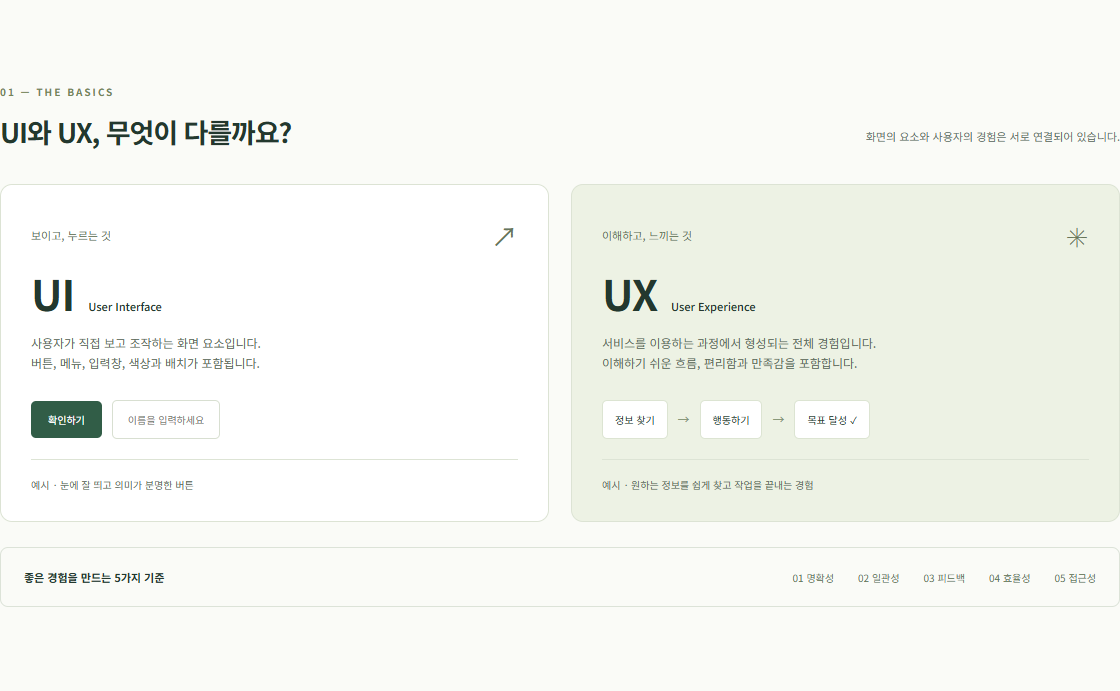
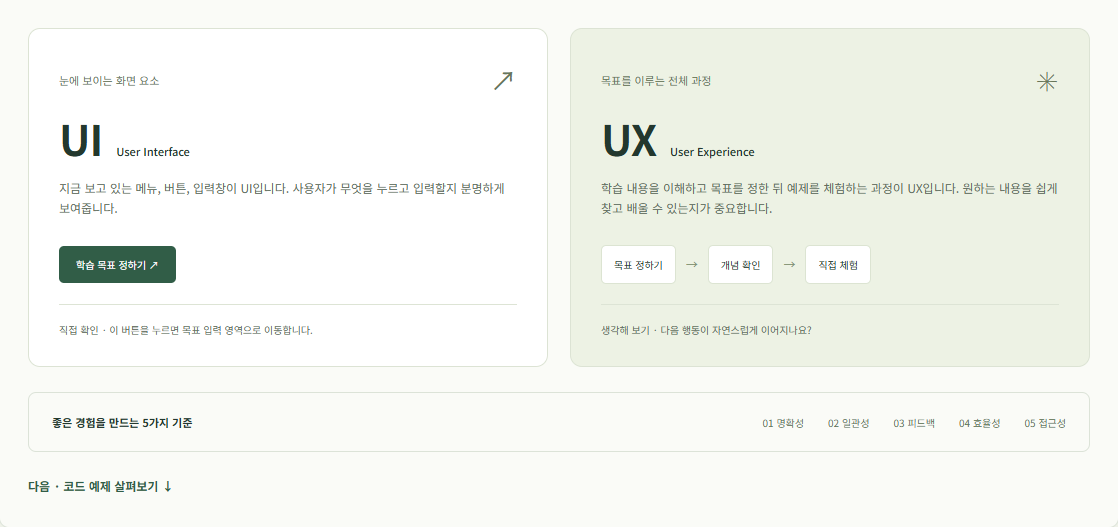
feat(week2): 서비스 소개와 기능 체험을 한 페이지로 통합

diff --git a/index.html b/index.html
@@ -7,12 +7,13 @@
   <title>한걸음 UI/UX | 이해하고, 만들고, 경험하는 웹</title>
   <link rel="stylesheet" href="style.css">
   <script src="script.js" defer></script>
+  <script src="learning.js" defer></script>
 </head>
 <body class="service-page">
   <!-- UX 기획
     사용자: UI와 UX, 웹의 기본 구조를 처음 배우는 대학생.
     목적: 서비스의 학습 내용과 이용 방법을 이해하고 첫 웹 학습을 시작한다.
-    핵심 행동: 페이지 안에서 필요한 정보를 찾고, 오늘의 학습 목표를 입력한 뒤 학습실을 이용한다.
+    핵심 행동: 페이지 안에서 필요한 정보를 찾고, 오늘의 학습 목표를 입력한 뒤 주요 기능의 예제를 펼쳐 직접 체험한다.
     정보 순서: 서비스 이름과 한 줄 소개 → 서비스 소개 → 주요 기능 3개 → 이용 방법 3단계 → 학습 목표 입력 → 하단 정보.
   -->
   <a class="skip-link" href="#main">본문 바로가기</a>
@@ -54,10 +55,10 @@
     <section class="section wrap" id="about" aria-labelledby="about-title">
       <div class="section-heading"><div><p class="eyebrow">01 — ABOUT THE SERVICE</p><h2 id="about-title">서비스 소개</h2></div><p>처음 배우는 사람의 시선으로, 한 단계씩.</p></div>
       <div class="about-layout">
-        <div class="about-copy"><h3>처음 만나는 웹,<br>어디서 시작할지 막막했다면.</h3><p>한걸음 UI/UX는 낯선 용어와 코드 앞에서 멈추는 대학생을 위해 만들었습니다. UI와 UX의 차이를 이해하고, 웹을 구성하는 세 가지 기술을 예제로 살펴봅니다.</p><p>읽는 데서 끝나지 않고 버튼을 직접 눌러보세요. 사용자의 행동에 화면이 어떻게 반응하는지 확인하며 배운 내용을 경험으로 연결할 수 있습니다.</p><a class="text-link" href="learn.html">학습실 미리 둘러보기 <span aria-hidden="true">↗</span></a></div>
+        <div class="about-copy"><h3>처음 만나는 웹,<br>어디서 시작할지 막막했다면.</h3><p>한걸음 UI/UX는 낯선 용어와 코드 앞에서 멈추는 대학생을 위해 만들었습니다. UI와 UX의 차이를 이해하고, 웹을 구성하는 세 가지 기술을 예제로 살펴봅니다.</p><p>읽는 데서 끝나지 않고 버튼을 직접 눌러보세요. 사용자의 행동에 화면이 어떻게 반응하는지 확인하며 배운 내용을 경험으로 연결할 수 있습니다.</p><a class="text-link" href="#features">주요 기능 살펴보기 <span aria-hidden="true">↓</span></a></div>
         <figure class="service-preview">
-          <img src="assets/images/service.png" alt="한걸음 UI/UX 학습실에서 UI의 버튼·입력창과 UX의 정보 찾기·행동하기·목표 달성 흐름을 비교하는 화면" width="1120" height="691" loading="lazy">
-          <figcaption><span class="dot" aria-hidden="true"></span>학습실 미리보기 · UI와 UX 비교하기</figcaption>
+          <img src="assets/images/service.png" alt="UI의 눈에 보이는 버튼과 UX의 목표 정하기·개념 확인·직접 체험 흐름을 나란히 비교하는 예제 화면" width="1118" height="527" loading="lazy">
+          <figcaption><span class="dot" aria-hidden="true"></span>서비스 체험 예시 · UI와 UX 비교하기</figcaption>
         </figure>
       </div>
     </section>
@@ -65,23 +66,64 @@
     <section class="structure-section" id="features" aria-labelledby="features-title"><div class="section wrap">
       <div class="section-heading"><div><p class="eyebrow">02 — WHAT YOU CAN DO</p><h2 id="features-title">주요 기능</h2></div><p>이해에서 실습까지 이어지는 세 가지 경험.</p></div>
       <ul class="feature-grid">
-        <li class="feature-card"><span class="feature-number" aria-hidden="true">01 / UNDERSTAND</span><h3>UI와 UX 비교하기</h3><p>버튼과 입력창 같은 화면 요소, 사용 과정에서 느끼는 경험을 비교하고 좋은 경험의 다섯 가지 기준을 알아봅니다.</p><a class="text-link" href="learn.html#concept">개념 살펴보기 <span aria-hidden="true">↗</span></a></li>
-        <li class="feature-card"><span class="feature-number" aria-hidden="true">02 / EXPLORE</span><h3>코드 예제 바꿔보기</h3><p>HTML, CSS, JavaScript 탭을 선택해 내용의 구조, 화면의 표현, 상호작용을 만드는 코드와 역할을 확인합니다.</p><a class="text-link" href="learn.html#structure">코드 예제 보기 <span aria-hidden="true">↗</span></a></li>
-        <li class="feature-card"><span class="feature-number" aria-hidden="true">03 / EXPERIENCE</span><h3>클릭과 피드백 체험하기</h3><p>버튼을 누르면 바뀌는 숫자와 메시지로 화면의 반응을 경험합니다. 초기화 버튼으로 다시 시작할 수도 있습니다.</p><a class="text-link" href="learn.html#practice">인터랙션 체험하기 <span aria-hidden="true">↗</span></a></li>
+        <li class="feature-card"><span class="feature-number" aria-hidden="true">01 / UNDERSTAND</span><h3>UI와 UX 비교하기</h3><p>버튼과 입력창 같은 화면 요소, 사용 과정에서 느끼는 경험을 비교하고 좋은 경험의 다섯 가지 기준을 알아봅니다.</p><a class="text-link" href="#concept">개념 예제 펼치기 <span aria-hidden="true">↓</span></a></li>
+        <li class="feature-card"><span class="feature-number" aria-hidden="true">02 / EXPLORE</span><h3>코드 예제 바꿔보기</h3><p>HTML, CSS, JavaScript 탭을 선택해 내용의 구조, 화면의 표현, 상호작용을 만드는 코드와 역할을 확인합니다.</p><a class="text-link" href="#structure">코드 예제 펼치기 <span aria-hidden="true">↓</span></a></li>
+        <li class="feature-card"><span class="feature-number" aria-hidden="true">03 / EXPERIENCE</span><h3>클릭과 피드백 체험하기</h3><p>버튼을 누르면 바뀌는 숫자와 메시지로 화면의 반응을 경험합니다. 초기화 버튼으로 다시 시작할 수도 있습니다.</p><a class="text-link" href="#practice">인터랙션 예제 펼치기 <span aria-hidden="true">↓</span></a></li>
       </ul>
+      <!-- 기능 설명과 체험을 같은 영역에 배치해 별도 페이지 이동 없이 이용합니다. -->
+      <div class="feature-demos">
+        <p class="demo-intro">궁금한 예제를 펼쳐 이 페이지에서 바로 체험해 보세요.</p>
+        <details class="feature-demo" id="concept">
+          <summary><span class="demo-number">01</span> UI와 UX 비교하기 <span class="demo-toggle" aria-hidden="true">+</span></summary>
+          <div class="demo-content">
+            <div class="concept-grid">
+              <article class="concept-card ui-card"><div class="card-top"><span>눈에 보이는 화면 요소</span><span class="symbol" aria-hidden="true">↗</span></div><h3>UI<span>User Interface</span></h3><p>지금 보고 있는 메뉴, 버튼, 입력창이 UI입니다. 사용자가 무엇을 누르고 입력할지 분명하게 보여줍니다.</p><div class="ui-example"><a class="example-button" href="#start">학습 목표 정하기 ↗</a></div><p class="card-note">직접 확인 · 이 버튼을 누르면 목표 입력 영역으로 이동합니다.</p></article>
+              <article class="concept-card ux-card"><div class="card-top"><span>목표를 이루는 전체 과정</span><span class="symbol" aria-hidden="true">✳</span></div><h3>UX<span>User Experience</span></h3><p>학습 내용을 이해하고 목표를 정한 뒤 예제를 체험하는 과정이 UX입니다. 원하는 내용을 쉽게 찾고 배울 수 있는지가 중요합니다.</p><div class="ux-example"><span>목표 정하기</span><i aria-hidden="true">→</i><span>개념 확인</span><i aria-hidden="true">→</i><span>직접 체험</span></div><p class="card-note">생각해 보기 · 다음 행동이 자연스럽게 이어지나요?</p></article>
+            </div>
+            <div class="principles"><strong>좋은 경험을 만드는 5가지 기준</strong><div><span>01 명확성</span><span>02 일관성</span><span>03 피드백</span><span>04 효율성</span><span>05 접근성</span></div></div>
+            <a class="text-link demo-next" href="#structure">다음 · 코드 예제 살펴보기 ↓</a>
+          </div>
+        </details>
+        <details class="feature-demo" id="structure">
+          <summary><span class="demo-number">02</span> 코드 예제 바꿔보기 <span class="demo-toggle" aria-hidden="true">+</span></summary>
+          <div class="demo-content">
+            <p class="demo-description">지금 보고 있는 서비스 소개 페이지도 세 가지 역할로 만들어집니다. 탭을 선택해 코드를 비교해 보세요.</p>
+            <div class="tech-layout">
+              <div class="tech-tabs" role="tablist" aria-label="웹 기술" aria-orientation="vertical">
+                <button type="button" id="tab-html" role="tab" aria-selected="true" aria-controls="tech-panel" data-tech="html"><span class="tech-number">01</span><span><strong>HTML</strong><small>내용과 구조</small></span><span class="tab-arrow" aria-hidden="true">↗</span></button>
+                <button type="button" id="tab-css" role="tab" aria-selected="false" aria-controls="tech-panel" tabindex="-1" data-tech="css"><span class="tech-number">02</span><span><strong>CSS</strong><small>디자인과 표현</small></span><span class="tab-arrow" aria-hidden="true">↗</span></button>
+                <button type="button" id="tab-js" role="tab" aria-selected="false" aria-controls="tech-panel" tabindex="-1" data-tech="js"><span class="tech-number">03</span><span><strong>JavaScript</strong><small>동작과 상호작용</small></span><span class="tab-arrow" aria-hidden="true">↗</span></button>
+              </div>
+              <div class="code-panel" id="tech-panel" role="tabpanel" aria-labelledby="tab-html" tabindex="0"><div class="code-top"><span id="code-filename">index.html</span><span class="code-dots" aria-hidden="true">● ● ●</span></div><div class="code-content"><p id="tech-description">HTML은 서비스 이름, 소개 문단, 이동 링크에 의미와 구조를 부여합니다.</p><pre><code id="code-example">&lt;section id="about"&gt;
+  &lt;h2&gt;서비스 소개&lt;/h2&gt;
+  &lt;p&gt;작은 실습으로 웹을 배웁니다.&lt;/p&gt;
+  &lt;a href="#features"&gt;주요 기능 보기&lt;/a&gt;
+&lt;/section&gt;</code></pre><span class="code-note" id="tech-analogy">이 페이지에서 찾기 · 서비스 소개와 주요 기능 영역</span></div></div>
+            </div>
+            <a class="text-link demo-next" href="#practice">다음 · 클릭과 피드백 체험하기 ↓</a>
+          </div>
+        </details>
+        <details class="feature-demo" id="practice">
+          <summary><span class="demo-number">03</span> 클릭과 피드백 체험하기 <span class="demo-toggle" aria-hidden="true">+</span></summary>
+          <div class="demo-content demo-practice">
+            <div><h3>내 행동에 화면이 답한다면.</h3><p class="practice-description">체험 버튼을 눌러보세요. 숫자와 메시지가 바뀌면 내 행동이 전달되었다는 것을 알 수 있습니다.</p><div class="feedback-flow"><span>버튼 누르기</span> → <span>화면 반응</span> → <span>결과 확인</span></div></div>
+            <div class="interaction-card"><span class="live-label"><span class="dot" aria-hidden="true"></span> TRY IT HERE</span><div class="counter"><strong id="click-count">0</strong><span>번의 인터랙션</span></div><p id="feedback-message" role="status" aria-live="polite">아래 버튼으로 첫 인터랙션을 만들어 보세요.</p><button type="button" class="interaction-button" id="experience-button">클릭해 보세요 <span aria-hidden="true">↗</span></button><button type="button" class="reset-button" id="reset-button" disabled>처음으로 되돌리기</button></div>
+          </div>
+        </details>
+      </div>
     </div></section>
 
     <section class="section wrap" id="steps" aria-labelledby="steps-title">
       <div class="section-heading"><div><p class="eyebrow">03 — HOW TO START</p><h2 id="steps-title">이용 방법</h2></div><p>첫 학습을 시작하는 간단한 3단계.</p></div>
       <ol class="steps-list">
         <li><h3>오늘의 목표 정하기</h3><p>아래 입력창에 오늘 배우고 싶은 내용을 한 줄로 적어 학습 방향을 정합니다.</p></li>
-        <li><h3>개념과 예제 살펴보기</h3><p>학습실에서 UI와 UX를 비교하고 HTML, CSS, JavaScript 코드 탭을 차례로 선택합니다.</p></li>
+        <li><h3>개념과 예제 살펴보기</h3><p>주요 기능에서 예제를 펼쳐 UI와 UX를 비교하고 HTML, CSS, JavaScript 코드 탭을 차례로 선택합니다.</p></li>
         <li><h3>직접 누르고 확인하기</h3><p>인터랙션 실습 버튼을 누르고 화면의 변화를 확인하며 목표로 정한 내용을 복습합니다.</p></li>
       </ol>
     </section>
 
     <section class="wrap reflection start-section" id="start" aria-labelledby="start-title">
-      <div class="start-copy"><p class="eyebrow">04 — YOUR FIRST STEP</p><h2 id="start-title">학습 목표</h2><p>오늘 배우고 싶은 한 가지부터 시작해 보세요.<br>작은 목표가 첫 걸음을 더 쉽게 만듭니다.</p><a class="text-link" href="learn.html">학습실로 이동하기 <span aria-hidden="true">↗</span></a></div>
+      <div class="start-copy"><p class="eyebrow">04 — YOUR FIRST STEP</p><h2 id="start-title">학습 목표</h2><p>오늘 배우고 싶은 한 가지부터 시작해 보세요.<br>작은 목표가 첫 걸음을 더 쉽게 만듭니다.</p><a class="text-link" href="#concept">개념 예제 먼저 살펴보기 <span aria-hidden="true">↑</span></a></div>
       <!-- 최소 입력 영역: 서비스의 핵심 행동에 맞춘 입력 한 칸과 제출 버튼. -->
       <form id="goal-form" action="#start" method="get">
         <label for="learning-goal">오늘의 학습 목표 <span>(필수)</span></label>
@@ -89,8 +131,8 @@
         <p id="goal-help">80자 이내로 적어주세요. 목표는 이 화면에서만 확인하며, 새로고침하면 지워집니다.</p>
         <button class="interaction-button" id="goal-submit" type="submit" disabled>학습 목표 정하기 <span aria-hidden="true">↗</span></button>
         <p id="goal-feedback" role="status" aria-live="polite"></p>
-        <a class="text-link" id="goal-next" href="learn.html#concept" hidden>목표를 정했어요. 첫 개념 학습하기 ↗</a>
-        <noscript><p>목표 확인 기능은 JavaScript가 필요합니다. 위의 학습실 링크로 바로 학습할 수 있습니다.</p></noscript>
+        <a class="text-link" id="goal-next" href="#concept" hidden>목표를 정했어요. 개념 예제 펼치기 ↑</a>
+        <noscript><p>목표 확인 기능은 JavaScript가 필요합니다. 주요 기능의 예제를 펼쳐 내용을 읽을 수 있습니다.</p></noscript>
       </form>
     </section>
   </main>

diff --git a/learn.html b/learn.html
@@ -3,64 +3,18 @@
 <head>
   <meta charset="UTF-8">
   <meta name="viewport" content="width=device-width, initial-scale=1.0">
-  <meta name="description" content="UI/UX 프로그래밍 1주차 학습 페이지. UI와 UX, 웹의 기본 구조">
-  <title>학습실 | 한걸음 UI/UX</title>
-  <link rel="stylesheet" href="style.css">
-  <script src="learning.js" defer></script>
+  <title>한걸음 UI/UX로 이동</title>
+  <link rel="canonical" href="https://catyulha.github.io/uiux-week01/">
+  <script>
+    // 기존 README와 북마크의 주소를 통합 페이지의 같은 예제로 연결합니다.
+    const destination = new URL('index.html', location.href);
+    const sections = ['#concept', '#structure', '#practice', '#about', '#features', '#steps', '#start'];
+    destination.hash = sections.includes(location.hash) ? location.hash : '#features';
+    location.replace(destination.href);
+  </script>
+  <noscript><meta http-equiv="refresh" content="0;url=index.html#features"></noscript>
 </head>
 <body>
-  <a class="skip-link" href="#main">본문 바로가기</a>
-  <header class="header wrap">
-    <a class="logo" href="index.html" aria-label="한걸음 UI/UX 서비스 소개로 돌아가기">HY<span>↗</span></a>
-    <nav aria-label="주요 메뉴"><a href="#concept">UI & UX</a><a href="#structure">웹의 구조</a><a href="#practice">인터랙션 실습</a></nav>
-    <a class="week-label" href="index.html">서비스 소개 ↗</a>
-  </header>
-
-  <main id="main">
-    <section class="hero wrap" aria-labelledby="hero-title">
-      <div class="hero-copy">
-        <p class="eyebrow"><span class="dot"></span> MY FIRST WEB EXPERIENCE</p>
-        <h1 id="hero-title">작은 화면에서 시작하는<br><span>좋은 사용자 경험.</span></h1>
-        <p class="hero-description">UI/UX 프로그래밍의 이해와<br>웹 인터페이스의 기본 구조</p>
-        <a class="primary-link" href="#concept">첫 번째 학습 살펴보기 <span>↘</span></a>
-        <div class="student"><span class="avatar">하</span><div><strong>하율</strong><span>12406050 · UI/UX 프로그래밍 · 1주차</span></div></div>
-      </div>
-      <div class="hero-art" aria-label="구조, 스타일, 상호작용으로 구성되는 웹 화면 일러스트">
-        <div class="orbit orbit-one"></div><div class="orbit orbit-two"></div>
-        <span class="floating-label label-html">&lt;/&gt; HTML</span>
-        <div class="browser-card"><div class="browser-top"><span></span><span></span><span></span><small>my-first-page.html</small></div><div class="browser-body"><span class="mini-tag">HELLO, WEB!</span><h2>생각을 화면으로,<br>화면을 경험으로.</h2><div class="mock-line"></div><div class="mock-line short"></div><div class="mock-cards"><span>구조<br><b>HTML</b></span><span>표현<br><b>CSS</b></span><span>동작<br><b>JS</b></span></div><div class="mock-button">Let's create <span>↗</span></div></div></div>
-        <span class="floating-label label-css">✳ CSS</span><span class="floating-label label-js">{ } JavaScript</span><span class="art-caption">IDEA → INTERFACE → EXPERIENCE</span>
-      </div>
-    </section>
-
-    <div class="topic-strip"><div class="wrap"><span>01 / UNDERSTAND</span><p>보이는 요소를 이해하고, 사용하는 경험을 생각합니다.</p><span aria-hidden="true">✳</span></div></div>
-
-    <section class="section wrap" id="concept">
-      <div class="section-heading"><div><p class="eyebrow">01 — THE BASICS</p><h2>UI와 UX, 무엇이 다를까요?</h2></div><p>화면의 요소와 사용자의 경험은 서로 연결되어 있습니다.</p></div>
-      <div class="concept-grid">
-        <article class="concept-card ui-card"><div class="card-top"><span>보이고, 누르는 것</span><span class="symbol">↗</span></div><h3>UI<span>User Interface</span></h3><p>사용자가 직접 보고 조작하는 화면 요소입니다.<br>버튼, 메뉴, 입력창, 색상과 배치가 포함됩니다.</p><div class="ui-example"><span class="example-button">확인하기</span><span class="example-input">이름을 입력하세요</span></div><p class="card-note">예시 · 눈에 잘 띄고 의미가 분명한 버튼</p></article>
-        <article class="concept-card ux-card"><div class="card-top"><span>이해하고, 느끼는 것</span><span class="symbol">✳</span></div><h3>UX<span>User Experience</span></h3><p>서비스를 이용하는 과정에서 형성되는 전체 경험입니다.<br>이해하기 쉬운 흐름, 편리함과 만족감을 포함합니다.</p><div class="ux-example"><span>정보 찾기</span><i>→</i><span>행동하기</span><i>→</i><span>목표 달성 ✓</span></div><p class="card-note">예시 · 원하는 정보를 쉽게 찾고 작업을 끝내는 경험</p></article>
-      </div>
-      <div class="principles"><strong>좋은 경험을 만드는 5가지 기준</strong><div><span>01 명확성</span><span>02 일관성</span><span>03 피드백</span><span>04 효율성</span><span>05 접근성</span></div></div>
-    </section>
-
-    <section class="structure-section" id="structure"><div class="section wrap">
-      <div class="section-heading"><div><p class="eyebrow">02 — HOW THE WEB WORKS</p><h2>하나의 웹페이지, 세 가지 역할.</h2></div><p>탭을 선택해 웹을 구성하는 기술을 알아보세요.</p></div>
-      <div class="tech-layout"><div class="tech-tabs" role="tablist" aria-label="웹 기술" aria-orientation="vertical">
-        <button id="tab-html" role="tab" aria-selected="true" aria-controls="tech-panel" data-tech="html"><span class="tech-number">01</span><span><strong>HTML</strong><small>내용과 구조</small></span><span class="tab-arrow">↗</span></button>
-        <button id="tab-css" role="tab" aria-selected="false" aria-controls="tech-panel" tabindex="-1" data-tech="css"><span class="tech-number">02</span><span><strong>CSS</strong><small>디자인과 표현</small></span><span class="tab-arrow">↗</span></button>
-        <button id="tab-js" role="tab" aria-selected="false" aria-controls="tech-panel" tabindex="-1" data-tech="js"><span class="tech-number">03</span><span><strong>JavaScript</strong><small>동작과 상호작용</small></span><span class="tab-arrow">↗</span></button>
-      </div><div class="code-panel" id="tech-panel" role="tabpanel" aria-labelledby="tab-html" tabindex="0"><div class="code-top"><span id="code-filename">index.html</span><span class="code-dots">● ● ●</span></div><div class="code-content"><p id="tech-description">HTML은 제목, 문단, 버튼처럼 화면에 들어갈 내용과 구조를 만듭니다.</p><pre><code id="code-example">&lt;main&gt;
-  &lt;h1&gt;안녕하세요, 하율입니다.&lt;/h1&gt;
-  &lt;p&gt;나의 첫 웹페이지입니다.&lt;/p&gt;
-  &lt;button&gt;눌러보세요&lt;/button&gt;
-&lt;/main&gt;</code></pre><span class="code-note" id="tech-analogy">건물에 비유하면, 공간을 이루는 뼈대입니다.</span></div></div></div>
-    </div></section>
-
-    <section class="section wrap practice-section" id="practice"><div><p class="eyebrow">03 — TRY IT YOURSELF</p><h2>클릭 한 번에도,<br>피드백이 필요해요.</h2><p class="practice-description">버튼을 누르면 숫자와 메시지가 바뀝니다.<br>사용자의 행동에 화면이 반응하는 작은 UX를 체험해 보세요.</p><div class="feedback-flow"><span>사용자 행동</span> → <span>시스템 반응</span> → <span>결과 확인</span></div></div><div class="interaction-card"><span class="live-label"><span class="dot"></span> INTERACTION LAB</span><div class="counter"><strong id="click-count">0</strong><span>번의 인터랙션</span></div><p id="feedback-message" role="status" aria-live="polite">아래 버튼으로 첫 인터랙션을 만들어 보세요.</p><button class="interaction-button" id="experience-button">클릭해 보세요 <span>↗</span></button><button class="reset-button" id="reset-button" disabled>처음으로 되돌리기</button></div></section>
-
-    <section class="wrap reflection"><span class="reflection-icon" aria-hidden="true">✳</span><div><p class="eyebrow">WEEK 01 · LEARNING NOTE</p><h2>화면을 만드는 일은, 사용자를 생각하는 일.</h2><p>HTML로 구조를 만들고, CSS로 보기 좋게 표현하고, JavaScript로 반응을 넣습니다.</p></div><span class="reflection-week">01</span></section>
-  </main>
-  <footer class="wrap footer"><a class="logo" href="index.html">HY<span>↗</span></a><p>© 2026 한걸음 UI/UX · 1주차 학습실</p><a class="back-top" href="index.html">서비스 소개로 돌아가기 ↑</a></footer>
+  <p><a href="index.html#features">한걸음 UI/UX 서비스 소개와 예제 보기</a></p>
 </body>
 </html>

diff --git a/style.css b/style.css
@@ -6,6 +6,30 @@
 .skip-link:not(:focus){clip-path:inset(50%);width:1px;height:1px;overflow:hidden;white-space:nowrap;padding:0}
 
 /* 2주차: 1주차의 색상과 컴포넌트를 이어 사용하는 서비스 소개 페이지. */
+.feature-demos { margin-top: 30px; }
+.demo-intro, .demo-description { font-size: 13px; color: var(--muted); }
+.demo-description { margin: 0 0 24px; }
+.feature-demo { margin-top: 12px; border: 1px solid var(--line); border-radius: 10px; background: var(--paper); }
+.feature-demo summary { display: flex; align-items: center; gap: 16px; padding: 20px 24px; cursor: pointer; list-style: none; font-size: 15px; font-weight: 700; }
+.feature-demo summary::-webkit-details-marker { display: none; }
+.feature-demo summary:focus-visible { outline: 3px solid #718e31; outline-offset: 3px; border-radius: 10px; }
+.feature-demo[open] summary { border-bottom: 1px solid var(--line); }
+.demo-number { font-size: 11px; font-weight: 500; color: var(--muted); }
+.demo-toggle { margin-left: auto; font-size: 24px; font-weight: 400; line-height: 1; }
+.feature-demo[open] .demo-toggle { transform: rotate(45deg); }
+.demo-content { padding: 28px; }
+.demo-next { margin-top: 24px; }
+.demo-practice { display: grid; grid-template-columns: 1fr 1fr; gap: 40px; align-items: center; }
+.demo-practice h3 { font-size: 23px; line-height: 1.5; margin: 0; }
+@media (max-width: 720px) {
+  .feature-demo summary { padding: 17px 16px; gap: 10px; font-size: 13px; }
+  .demo-content { padding: 20px 14px; }
+  .demo-content .concept-card { padding: 20px 16px; }
+  .demo-practice { grid-template-columns: 1fr; gap: 24px; }
+  .demo-content .ux-example { flex-wrap: wrap; }
+  .demo-content .feedback-flow { flex-wrap: wrap; gap: 8px; }
+  .demo-content .interaction-card { padding: 24px 18px; }
+}
 [hidden] { display: none !important; }
 .service-logo { font-size: 24px; letter-spacing: -1.5px; white-space: nowrap; }
 .hero-tagline { display: block; margin-top: 10px; }

diff --git a/learning.js b/learning.js
@@ -2,21 +2,21 @@
 const examples = {
   html: {
     filename: 'index.html',
-    description: 'HTML은 제목, 문단, 버튼처럼 화면에 들어갈 내용과 구조를 만듭니다.',
-    code: '<main>\n  <h1>안녕하세요, 하율입니다.</h1>\n  <p>나의 첫 웹페이지입니다.</p>\n  <button>눌러보세요</button>\n</main>',
-    analogy: '건물에 비유하면, 공간을 이루는 뼈대입니다.'
+    description: 'HTML은 서비스 이름, 소개 문단, 이동 링크에 의미와 구조를 부여합니다.',
+    code: '<section id="about">\n  <h2>서비스 소개</h2>\n  <p>작은 실습으로 웹을 배웁니다.</p>\n  <a href="#features">주요 기능 보기</a>\n</section>',
+    analogy: '이 페이지에서 찾기 · 서비스 소개와 주요 기능 영역'
   },
   css: {
     filename: 'style.css',
     description: 'CSS는 색상, 글꼴, 여백과 배치를 정해 화면을 읽기 좋게 표현합니다.',
     code: 'button {\n  background-color: #315d47;\n  color: white;\n  padding: 12px 20px;\n  border-radius: 6px;\n}',
-    analogy: '건물에 비유하면, 공간을 꾸미는 인테리어입니다.'
+    analogy: '이 페이지에서 찾기 · 녹색 버튼과 카드의 여백'
   },
   js: {
     filename: 'script.js',
     description: 'JavaScript는 클릭과 입력에 반응하고 화면의 내용과 상태를 바꿉니다.',
     code: "const button = document.querySelector('button');\n\nbutton.addEventListener('click', () => {\n  button.textContent = '클릭이 전달되었어요!';\n});",
-    analogy: '건물에 비유하면, 버튼을 누를 때 문이 열리는 기능입니다.'
+    analogy: '이 페이지에서 찾기 · 클릭에 반응하는 숫자와 학습 목표 메시지'
   }
 };
 

diff --git a/script.js b/script.js
@@ -1,4 +1,26 @@
 // 목표는 서버로 전송하거나 저장하지 않고 현재 화면에만 표시합니다.
+// 내부 링크로 예제에 도착하면 접힌 내용을 펼칩니다.
+function openExample(hash) {
+  const target = document.getElementById(hash.slice(1));
+  if (!(target instanceof HTMLDetailsElement)) return null;
+  target.open = true;
+  return target;
+}
+
+document.addEventListener('click', event => {
+  const link = event.target.closest('a[href^="#"]');
+  if (!link || event.button !== 0 || event.ctrlKey || event.metaKey || event.shiftKey || event.altKey) return;
+  const example = openExample(link.hash);
+  if (example) example.querySelector('summary').focus({ preventScroll: true });
+});
+
+function revealFragment() {
+  const example = openExample(location.hash);
+  if (example) requestAnimationFrame(() => example.scrollIntoView());
+}
+window.addEventListener('hashchange', revealFragment);
+revealFragment();
+
 const goalForm = document.getElementById('goal-form');
 const goalInput = document.getElementById('learning-goal');
 const goalFeedback = document.getElementById('goal-feedback');
